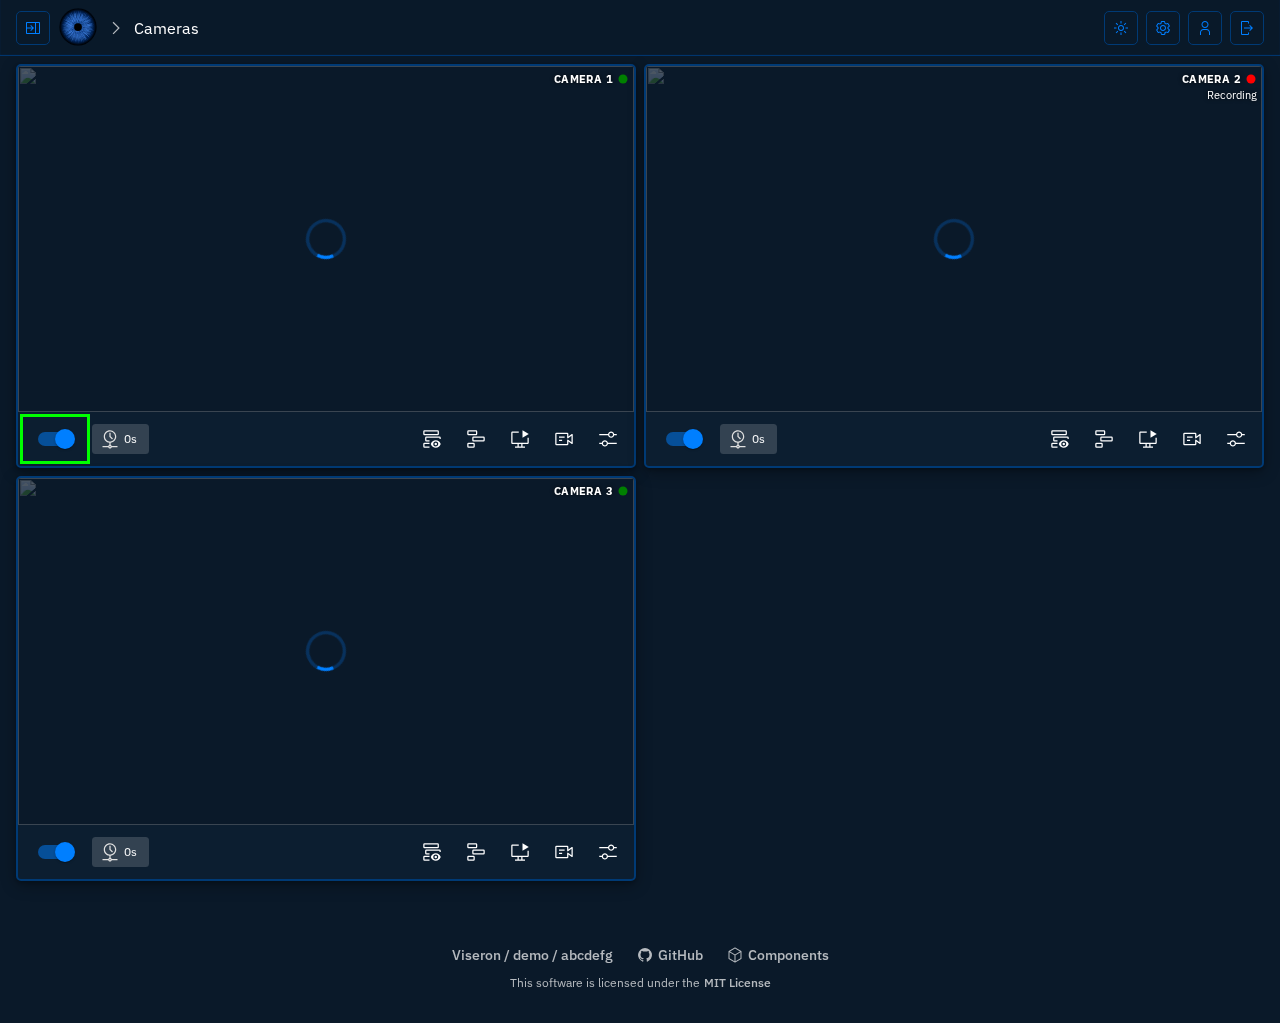
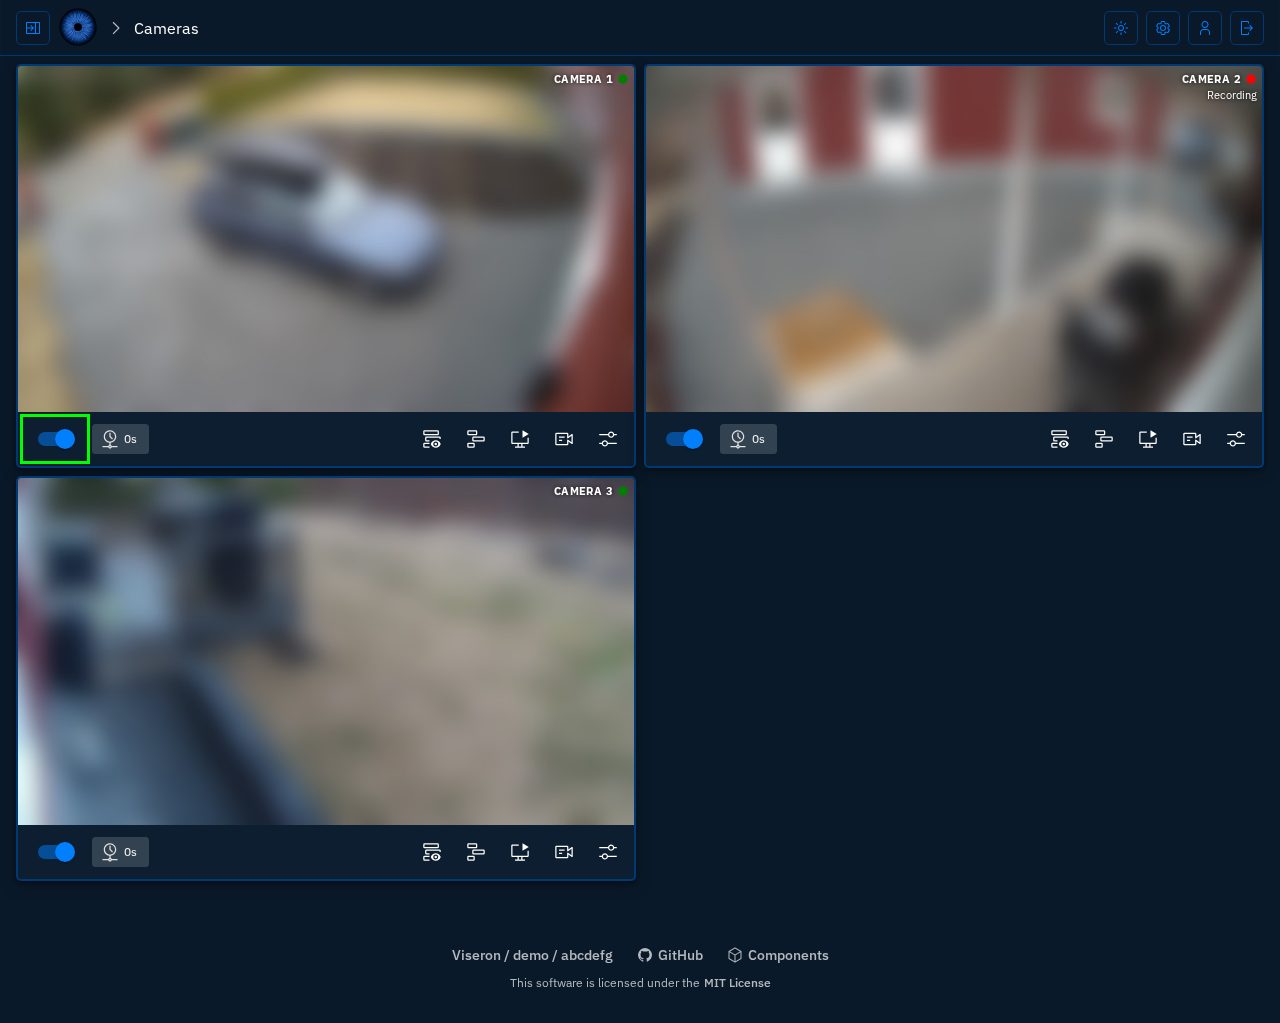
feat(docs): add camera snapshots to mocked api handler

diff --git a/frontend/tests/mocks/handlers.ts b/frontend/tests/mocks/handlers.ts
@@ -1,4 +1,5 @@
 import { HttpResponse, http } from "msw";
+import { fileURLToPath } from "url";
 
 import { getDayjs } from "lib/helpers/dates";
 import * as types from "lib/types";
@@ -208,11 +209,22 @@ export const handlers = [
     };
     return HttpResponse.json(camera, { status: 200 });
   }),
-  http.get(`${API_BASE_URL}/camera/camera*/snapshot`, () =>
-    // Return an empty image
-    HttpResponse.arrayBuffer(new ArrayBuffer(0), {
-      status: 200,
-    }),
+  http.get(
+    `${API_BASE_URL}/camera/:camera_identifier/snapshot`,
+    async ({ params }) => {
+      const fs = await import("fs");
+      const path = await import("path");
+      const __dirname = path.dirname(fileURLToPath(import.meta.url));
+      const imagePath = path.resolve(
+        __dirname,
+        `fixtures/${params.camera_identifier}_snapshot.jpg`,
+      );
+      const buffer = fs.readFileSync(imagePath);
+      return HttpResponse.arrayBuffer(buffer.buffer, {
+        status: 200,
+        headers: { "Content-Type": "image/jpeg" },
+      });
+    },
   ),
 
   // Recordings list
